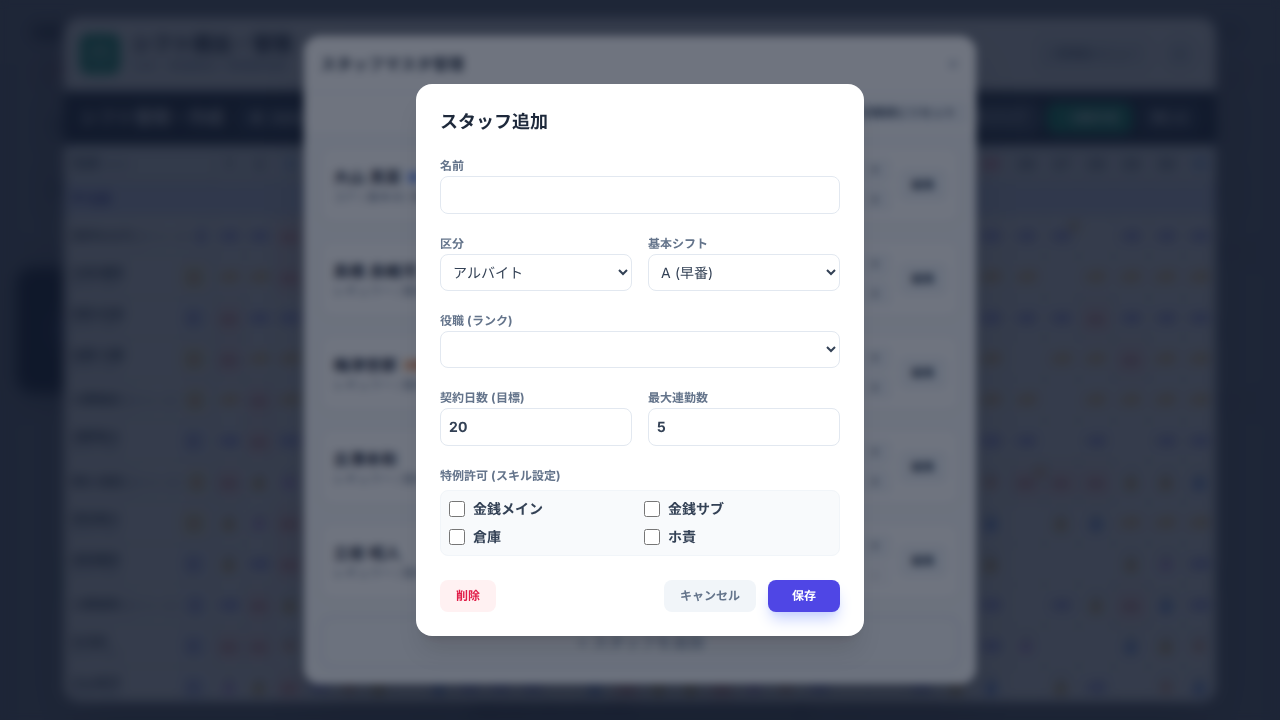
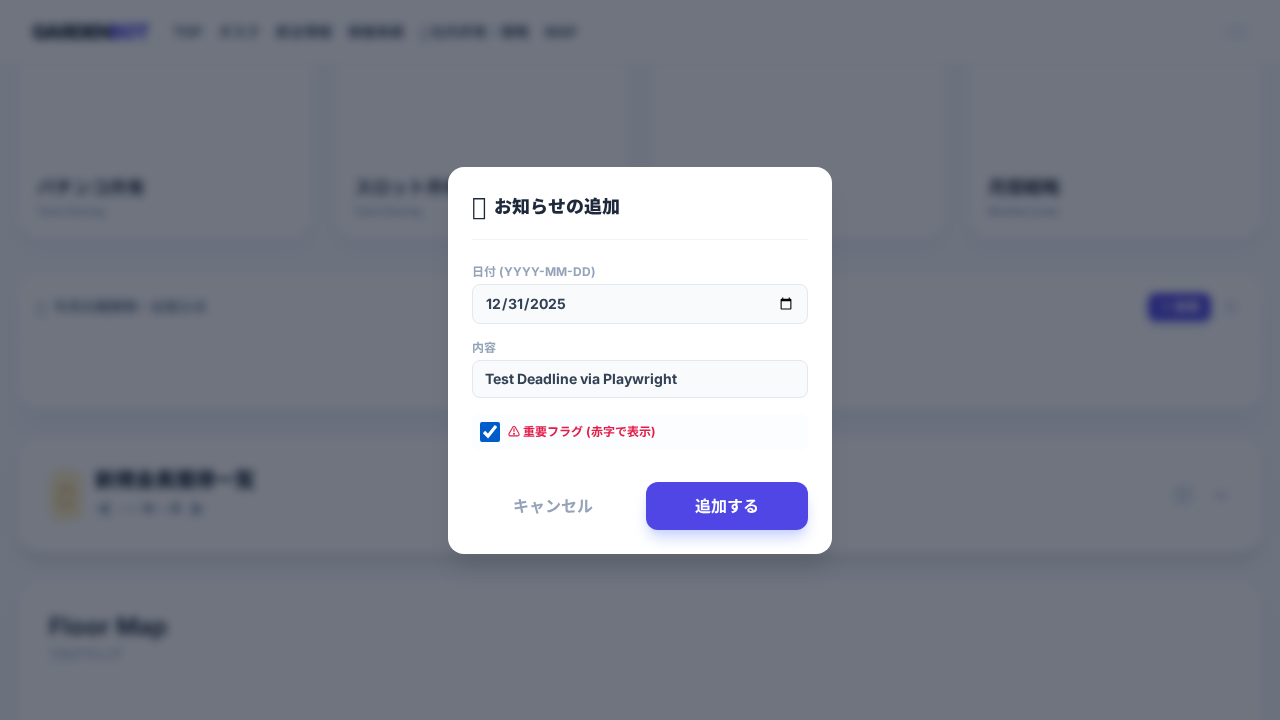
Refactor Deadlines UI to use a dedicated modal for adding items

diff --git a/index.html b/index.html
@@ -209,30 +209,17 @@
                         <h2 class="text-sm font-bold text-slate-500 flex items-center gap-2">
                             <span>📅</span> 今月の期限物・お知らせ
                         </h2>
-                        <button onclick="showPasswordModal('admin')" class="text-slate-300 hover:text-slate-500 transition p-1">
-                            <svg class="w-4 h-4" fill="none" viewBox="0 0 24 24" stroke="currentColor"><path stroke-linecap="round" stroke-linejoin="round" stroke-width="2" d="M10.325 4.317c.426-1.756 2.924-1.756 3.35 0a1.724 1.724 0 002.573 1.066c1.543-.94 3.31.826 2.37 2.37a1.724 1.724 0 001.065 2.572c1.756.426 1.756 2.924 0 3.35a1.724 1.724 0 00-1.066 2.573c.94 1.543-.826 3.31-2.37 2.37a1.724 1.724 0 00-2.572 1.065c-.426 1.756-2.924 1.756-3.35 0a1.724 1.724 0 00-2.573-1.066c-1.543.94-3.31-.826-2.37-2.37a1.724 1.724 0 00-1.065-2.572c-1.756-.426-1.756-2.924 0-3.35a1.724 1.724 0 001.066-2.573c-.94-1.543.826-3.31 2.37-2.37.996.608 2.296.07 2.572-1.065z"/><path stroke-linecap="round" stroke-linejoin="round" stroke-width="2" d="M15 12a3 3 0 11-6 0 3 3 0 016 0z"/></svg>
-                        </button>
+                        <div class="flex items-center gap-2">
+                            <button id="deadline-add-btn" onclick="openDeadlineModal()" class="hidden bg-indigo-600 text-white text-xs font-bold px-3 py-1.5 rounded-lg shadow-md shadow-indigo-200 hover:bg-indigo-700 transition">
+                                ＋ 新規
+                            </button>
+                            <button onclick="showPasswordModal('admin')" class="text-slate-300 hover:text-slate-500 transition p-1">
+                                <svg class="w-4 h-4" fill="none" viewBox="0 0 24 24" stroke="currentColor"><path stroke-linecap="round" stroke-linejoin="round" stroke-width="2" d="M10.325 4.317c.426-1.756 2.924-1.756 3.35 0a1.724 1.724 0 002.573 1.066c1.543-.94 3.31.826 2.37 2.37a1.724 1.724 0 001.065 2.572c1.756.426 1.756 2.924 0 3.35a1.724 1.724 0 00-1.066 2.573c.94 1.543-.826 3.31-2.37 2.37a1.724 1.724 0 00-2.572 1.065c-.426 1.756-2.924 1.756-3.35 0a1.724 1.724 0 00-2.573-1.066c-1.543.94-3.31-.826-2.37-2.37a1.724 1.724 0 00-1.065-2.572c-1.756-.426-1.756-2.924 0-3.35a1.724 1.724 0 001.066-2.573c-.94-1.543.826-3.31 2.37-2.37.996.608 2.296.07 2.572-1.065z"/><path stroke-linecap="round" stroke-linejoin="round" stroke-width="2" d="M15 12a3 3 0 11-6 0 3 3 0 016 0z"/></svg>
+                            </button>
+                        </div>
                     </div>
                     <div class="p-4" id="deadlines-list">
                         <p class="text-slate-400 text-sm text-center py-2">読み込み中...</p>
-                    </div>
-                     <div id="deadline-add-form" class="hidden px-4 pb-4 pt-2 border-t border-slate-100 animate-fade-in">
-                        <h3 class="text-xs font-bold text-slate-400 mb-3">新規追加</h3>
-                        <div class="mb-3">
-                            <label class="block text-[10px] font-bold text-slate-400 mb-1">日付 (YYYY-MM-DD)</label>
-                            <input type="date" id="deadline-date-input" class="w-full bg-slate-50 border border-slate-200 rounded-lg px-3 py-2 text-sm font-bold text-slate-700 outline-none focus:ring-2 focus:ring-indigo-500">
-                        </div>
-                        <div class="mb-3">
-                            <label class="block text-[10px] font-bold text-slate-400 mb-1">内容</label>
-                            <input type="text" id="deadline-content-input" placeholder="例: シフト提出期限" class="w-full bg-slate-50 border border-slate-200 rounded-lg px-3 py-2 text-sm font-bold text-slate-700 outline-none focus:ring-2 focus:ring-indigo-500">
-                        </div>
-                        <div class="flex items-center justify-between">
-                            <label class="flex items-center gap-2 cursor-pointer">
-                                <input type="checkbox" id="deadline-priority-input" class="w-4 h-4 text-rose-600 rounded border-slate-300 focus:ring-rose-500">
-                                <span class="text-xs font-bold text-rose-600">⚠ 重要 (赤字にする)</span>
-                            </label>
-                            <button id="deadline-add-btn" class="bg-indigo-600 text-white text-sm font-bold px-4 py-2 rounded-lg hover:bg-indigo-700 transition shadow-lg shadow-indigo-200">追加する</button>
-                        </div>
                     </div>
                 </div>
             </section>
@@ -581,6 +568,37 @@
             <div class="flex gap-3 mt-6">
                 <button onclick="closeQscEditModal()" class="flex-1 py-2.5 rounded-xl font-bold text-slate-500 bg-slate-100 hover:bg-slate-200 transition">キャンセル</button>
                 <button onclick="saveQscEdit()" class="flex-1 py-2.5 rounded-xl font-bold text-white bg-indigo-600 shadow-lg shadow-indigo-200 hover:bg-indigo-700 transition">保存する</button>
+            </div>
+        </div>
+    </div>
+
+    <div id="remarks-modal" class="modal-overlay hidden"><div class="modal-content p-6"><h3 class="text-lg font-bold text-slate-800 mb-1" id="remarks-modal-task"></h3><p class="text-xs font-bold text-slate-400 mb-4" id="remarks-modal-time"></p><div class="bg-slate-50 p-4 rounded-xl border border-slate-100 text-slate-700 text-sm font-medium leading-relaxed mb-6" id="remarks-modal-text"></div><button onclick="closeRemarksModal()" class="w-full py-3 rounded-xl font-bold bg-slate-100 text-slate-600 hover:bg-slate-200">閉じる</button></div></div>
+
+    <!-- Deadline Add Modal -->
+    <div id="deadline-modal" class="modal-overlay hidden">
+        <div class="modal-content p-6 max-w-sm">
+            <h3 class="text-lg font-black text-slate-800 mb-6 flex items-center gap-2 border-b border-slate-100 pb-4">
+                <span class="text-2xl">📝</span> お知らせの追加
+            </h3>
+            <div class="space-y-4">
+                <div>
+                    <label class="block text-xs font-bold text-slate-400 mb-1">日付 (YYYY-MM-DD)</label>
+                    <input type="date" id="deadline-date-input" class="w-full bg-slate-50 border border-slate-200 rounded-lg px-3 py-2 text-sm font-bold text-slate-700 outline-none focus:ring-2 focus:ring-indigo-500">
+                </div>
+                <div>
+                    <label class="block text-xs font-bold text-slate-400 mb-1">内容</label>
+                    <input type="text" id="deadline-content-input" placeholder="例: シフト提出期限" class="w-full bg-slate-50 border border-slate-200 rounded-lg px-3 py-2 text-sm font-bold text-slate-700 outline-none focus:ring-2 focus:ring-indigo-500">
+                </div>
+                <div>
+                    <label class="flex items-center gap-2 cursor-pointer p-2 rounded-lg hover:bg-slate-50 transition">
+                        <input type="checkbox" id="deadline-priority-input" class="w-5 h-5 text-rose-600 rounded border-slate-300 focus:ring-rose-500">
+                        <span class="text-xs font-bold text-rose-600">⚠ 重要フラグ (赤字で表示)</span>
+                    </label>
+                </div>
+            </div>
+            <div class="mt-8 flex gap-3">
+                <button onclick="closeDeadlineModal()" class="flex-1 py-3 text-slate-400 font-bold hover:bg-slate-50 rounded-xl">キャンセル</button>
+                <button onclick="addDeadline()" class="flex-1 bg-indigo-600 text-white font-bold py-3 rounded-xl shadow-lg shadow-indigo-200 hover:bg-indigo-700">追加する</button>
             </div>
         </div>
     </div>

diff --git a/js/deadlines.js b/js/deadlines.js
@@ -20,7 +20,6 @@ const deadlineUIState = {
 
 export function initDeadlines() {
     subscribeDeadlines();
-    setupDeadlineForm();
 }
 
 // Function to update staff lists in existing deadlines (called from tasks.js after master fetch)
@@ -205,20 +204,41 @@ function createDeadlineElement(id, data) {
     return container;
 }
 
-function setupDeadlineForm() {
-    const addBtn = document.getElementById('deadline-add-btn');
-    if (addBtn) {
-        addBtn.onclick = addDeadline;
-    }
-}
-
 export function activateDeadlineAdminMode() {
     editMode = true;
     updateEditModeUI();
-    const form = document.getElementById("deadline-add-form");
-    if (form) {
-        form.classList.remove("hidden");
+    const addBtn = document.getElementById("deadline-add-btn");
+    if (addBtn) {
+        addBtn.classList.remove("hidden");
     }
+}
+
+export function openDeadlineModal() {
+    const modal = document.getElementById("deadline-modal");
+    if (modal) {
+        modal.classList.remove("hidden");
+        // Set default date to today if empty
+        const dateInput = document.getElementById('deadline-date-input');
+        if (dateInput && !dateInput.value) {
+            const today = new Date();
+            const y = today.getFullYear();
+            const m = String(today.getMonth() + 1).padStart(2, '0');
+            const d = String(today.getDate()).padStart(2, '0');
+            dateInput.value = `${y}-${m}-${d}`;
+        }
+    }
+}
+
+export function closeDeadlineModal() {
+    const modal = document.getElementById("deadline-modal");
+    if (modal) {
+        modal.classList.add("hidden");
+    }
+    // Clear inputs
+    const contentInput = document.getElementById('deadline-content-input');
+    const priorityInput = document.getElementById('deadline-priority-input');
+    if (contentInput) contentInput.value = '';
+    if (priorityInput) priorityInput.checked = false;
 }
 
 function updateEditModeUI() {
@@ -232,7 +252,7 @@ function updateEditModeUI() {
     });
 }
 
-async function addDeadline() {
+export async function addDeadline() {
     const dateInput = document.getElementById('deadline-date-input');
     const contentInput = document.getElementById('deadline-content-input');
     const priorityInput = document.getElementById('deadline-priority-input'); // checkbox
@@ -260,10 +280,7 @@ async function addDeadline() {
             checks: {} // Initialize empty checks map
         });
 
-        // Reset inputs
-        contentInput.value = '';
-        priorityInput.checked = false;
-
+        closeDeadlineModal();
         showToast("お知らせを追加しました");
     } catch (e) {
         console.error("Error adding deadline:", e);

diff --git a/main.js b/main.js
@@ -191,6 +191,11 @@ document.addEventListener("DOMContentLoaded", () => {
     Customer.fetchCustomerData();
     Deadlines.initDeadlines();
 
+    // Expose Deadlines modal functions
+    window.openDeadlineModal = Deadlines.openDeadlineModal;
+    window.closeDeadlineModal = Deadlines.closeDeadlineModal;
+    window.addDeadline = Deadlines.addDeadline;
+
     // ★追加: 戦略共有の初期化
     Strategy.initStrategy();
 

diff --git a/verify_deadline_modal.py b/verify_deadline_modal.py
@@ -1,0 +1,59 @@
+from playwright.sync_api import sync_playwright, expect
+import time
+
+def run():
+    with sync_playwright() as p:
+        browser = p.chromium.launch(headless=True)
+        context = browser.new_context()
+        page = context.new_page()
+
+        # 1. Open the page
+        # Using load instead of networkidle as firebase/external requests might keep network active
+        page.goto("http://localhost:8080/index.html", wait_until="load")
+
+        # 2. Scroll to Deadlines section
+        deadlines_section = page.locator("#deadlines-section")
+        deadlines_section.scroll_into_view_if_needed()
+
+        # 3. Simulate Admin Login (Password: "admin") to show the Add Button
+        # Open password modal
+        page.evaluate("window.showPasswordModal('admin')")
+
+        # Fill password and submit
+        page.get_by_placeholder("Password").fill("admin")
+        page.get_by_role("button", name="認証").click()
+
+        # Wait for admin mode to activate (button should appear)
+        add_btn = page.locator("#deadline-add-btn")
+        expect(add_btn).to_be_visible(timeout=5000)
+
+        # 4. Click Add Button to open Modal
+        add_btn.click()
+
+        # 5. Verify Modal appears
+        modal = page.locator("#deadline-modal")
+        expect(modal).to_be_visible(timeout=5000)
+
+        # 6. Fill Modal inputs
+        page.locator("#deadline-date-input").fill("2025-12-31")
+        page.locator("#deadline-content-input").fill("Test Deadline via Playwright")
+        page.locator("#deadline-priority-input").check()
+
+        # Take Screenshot of the open modal with filled data
+        page.screenshot(path="verification_modal.png")
+        print("Screenshot taken: verification_modal.png")
+
+        # 7. Add the deadline
+        # Mocking window.showToast/alert to avoid blocking or errors if they are native
+        page.evaluate("window.alert = function(){}")
+
+        # Click Add in modal
+        page.get_by_role("button", name="追加する").click()
+
+        # 8. Verify Modal closes
+        expect(modal).not_to_be_visible(timeout=5000)
+
+        browser.close()
+
+if __name__ == "__main__":
+    run()
